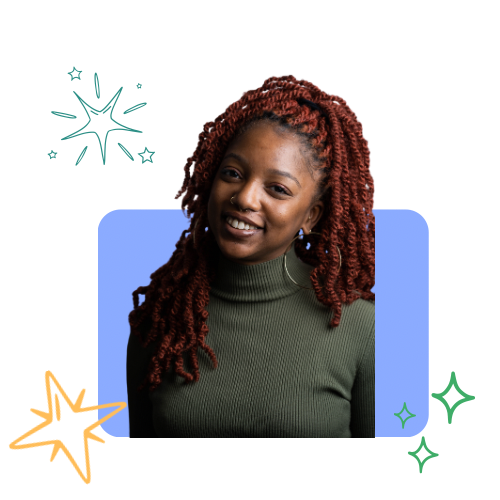
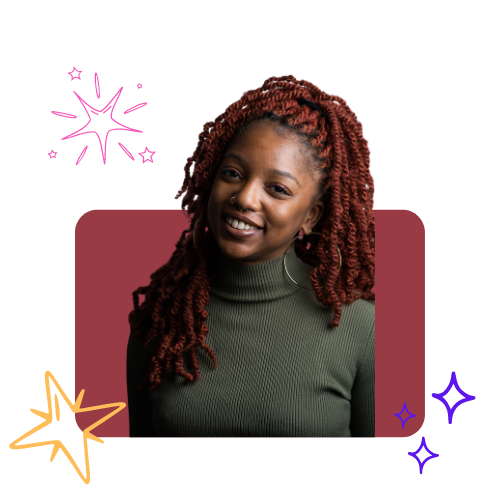
styling changes

diff --git a/src/Pages/Home/Projects.jsx b/src/Pages/Home/Projects.jsx
@@ -1,4 +1,5 @@
 import data from "../../data/index.json";
+import { Link } from 'react-router-dom';
 
 function Projects () {
     return(
@@ -9,10 +10,19 @@ function Projects () {
                     <h2 className="section-heading"> My Projects</h2>
                 </div>
                 <div>
-                    <button className="btn btn-github">
-                        <img src="./assets/github-logo.svg" alt="github logo" />
-                        Visit My Github
-                    </button>
+                    <Link 
+                        to="https://github.com/SOyeniyi801"
+                        target="_blank"
+                        style={{ textDecoration: 'none' }}>
+                            <button className="btn btn-github">
+                                <svg xmlns="http://www.w3.org/2000/svg" viewBox="0 0 24 24" width="32" height="32" fill="white">
+                                    <path fill="white" d="M12 0C5.373 0 0 5.373 0 12c0 5.302 3.438 9.801 8.221 11.385.6.111.793-.261.793-.577 0-.285-.01-1.04-.015-2.043-3.355.73-4.055-1.584-4.055-1.584C4.46 18.216 3.68 17.8 3.68 17.8c-1.087-.744.084-.729.084-.729 1.204.084 1.838 1.238 1.838 1.238 1.07 1.835 2.809 1.305 3.495.998.109-.775.417-1.305.76-1.605-2.665-.305-5.467-1.332-5.467-5.93 0-1.31.465-2.38 1.235-3.22-.135-.307-.54-1.523.105-3.176 0 0 1.007-.322 3.3 1.23a11.488 11.488 0 0 1 3-.405c1.018 0 2.04.137 3 .4 2.29-1.554 3.296-1.232 3.296-1.232.646 1.654.24 2.87.12 3.176.765.84 1.23 1.91 1.23 3.22 0 4.61-2.807 5.623-5.48 5.918.43.372.81 1.102.81 2.223 0 1.606-.015 2.896-.015 3.286 0 .32.192.695.8.576C20.566 21.795 24 17.296 24 12c0-6.627-5.373-12-12-12"  className="btn-github"/>
+                                </svg>
+
+                                Visit My Github
+                            </button>
+                    </Link>
+                    
                 </div>
             </div>
             <div className="projects-section-container">

diff --git a/src/Pages/Home/Hero.jsx b/src/Pages/Home/Hero.jsx
@@ -5,12 +5,12 @@ function Hero (){
                 <div className="hero-section-content">
                     <p className="section-title">Hey I'm Sammi</p>
                     <h1 className="hero-section-title">
-                        <span className="hero-section-title-color">Full Stack</span>{" "}
+                        <span className="hero-section-title-color">Front End</span>{" "}
                         <br />
                         Developer
                     </h1>
                     <p className="hero-section-description">
-                        Lorem ipsum dolor sit amet consectetur adipisicing elit. <br/> Lorem ipsum dolor sit amet consectetur adipisicing elit. Ullam.
+                    From pixels to perfection, turning ideas into interactive wonders. <br/> Junior frontend developer with a passion for crafting beautiful web experiences.
                     </p>
                 </div>
                 <button className="btn btn-primary"> Get in touch</button>

diff --git a/src/App.css b/src/App.css
@@ -20,11 +20,11 @@ p{
 }
 
 :root {
-  --primary: #5e3bee;
-  --heading-color:#282938;
-  --bg-shade: #f5fcff;
-  --github: #e62872;
-  --darkblue: #1c1e53;
+  --primary: #6BAA75;
+  --heading-color:#25393F;
+  --bg-shade: #F9F9F9;
+  --github: #FE5F55;
+  --darkblue: #124076;
   --black: #000000;
   --white: #ffffff;
 }
@@ -141,7 +141,7 @@ h3 {
 /* Skills & About Me */
 .section-title {
   color: var(--heading-color);
-  font-size: 21px;
+  font-size: 25px;
   text-align: center;
   font-style: normal;
   font-weight: 600;
@@ -240,7 +240,7 @@ h3 {
 }
 
 .hero-section-title-color {
- color: var(--primary)
+ color: var(--primary);
 }
 
 .hero-section-description {
@@ -356,7 +356,9 @@ h3 {
  /* About Me Section Style End */
 
  /* Projects Section Starts */
-
+ .btn-github:hover svg path {
+  fill: var(--github)
+ }
  .projects-section {
   display:flex;
   padding: 112px 85px;
